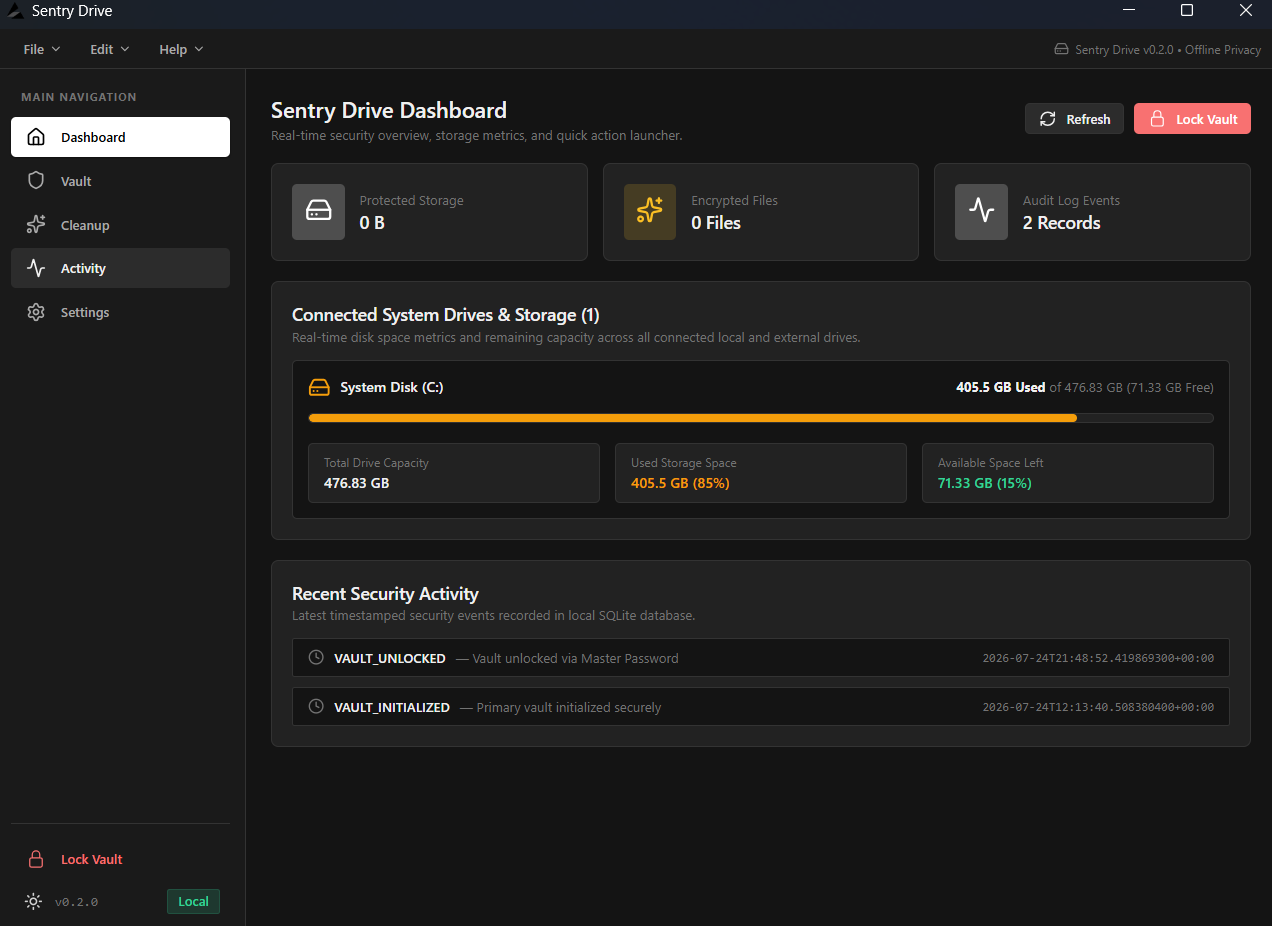
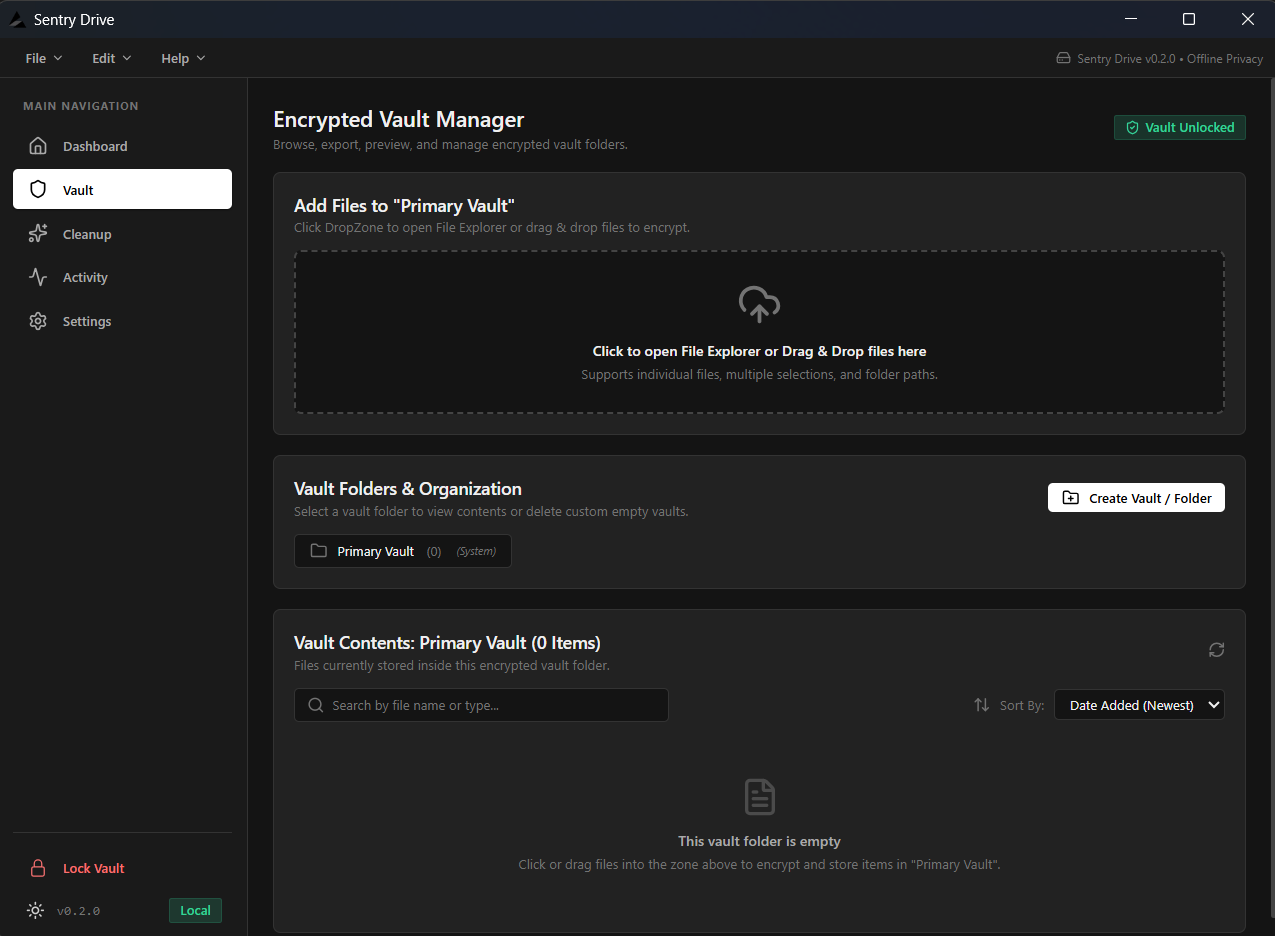
feat: add Hero, AppPreview, and DownloadButton components with screenshot assets

diff --git a/src/components/Hero.tsx b/src/components/Hero.tsx
@@ -1,6 +1,7 @@
 "use client";
 
 import { motion } from "framer-motion";
+import { Download } from "lucide-react";
 import DownloadButton from "./DownloadButton";
 
 const GithubIcon = ({ className = "w-4 h-4" }: { className?: string }) => (
@@ -37,8 +38,9 @@ export default function Hero() {
         SentryDrive is an offline-first premium tool to protect your files and clean up the rest. Built for speed and simplicity.
       </p>
       <div className="flex flex-wrap gap-4 mt-2">
-        <DownloadButton className="bg-foreground text-background px-6 py-3 rounded-md font-medium hover:bg-foreground/90 transition-colors active:scale-[0.98]">
-          Download Now
+        <DownloadButton className="bg-foreground text-background px-6 py-3 rounded-md font-medium hover:bg-foreground/90 transition-colors active:scale-[0.98] inline-flex items-center justify-center gap-2">
+          <Download className="w-4 h-4" />
+          <span>Download Now</span>
         </DownloadButton>
         <a 
           href="https://github.com/christliebdela/SentryDrive" 

diff --git a/src/components/AppPreview.tsx b/src/components/AppPreview.tsx
@@ -11,12 +11,12 @@ export default function AppPreview() {
       className="w-full max-w-xl aspect-[4/3] rounded-lg border border-border bg-secondary flex items-center justify-center shadow-2xl overflow-hidden relative"
     >
       <img 
-        src="/darkscreenshot.png" 
+        src="/lightscreenshot.png" 
         alt="SentryDrive Dark Mode Preview" 
         className="w-full h-full object-cover hidden dark:block" 
       />
       <img 
-        src="/lightscreenshot.png" 
+        src="/darkscreenshot.png" 
         alt="SentryDrive Light Mode Preview" 
         className="w-full h-full object-cover dark:hidden" 
       />

diff --git a/src/components/DownloadButton.tsx b/src/components/DownloadButton.tsx
@@ -12,7 +12,7 @@ export default function DownloadButton({
   };
 
   return (
-    <button onClick={handleDownload} className={className}>
+    <button onClick={handleDownload} className={`cursor-pointer ${className}`}>
       {children}
     </button>
   );
